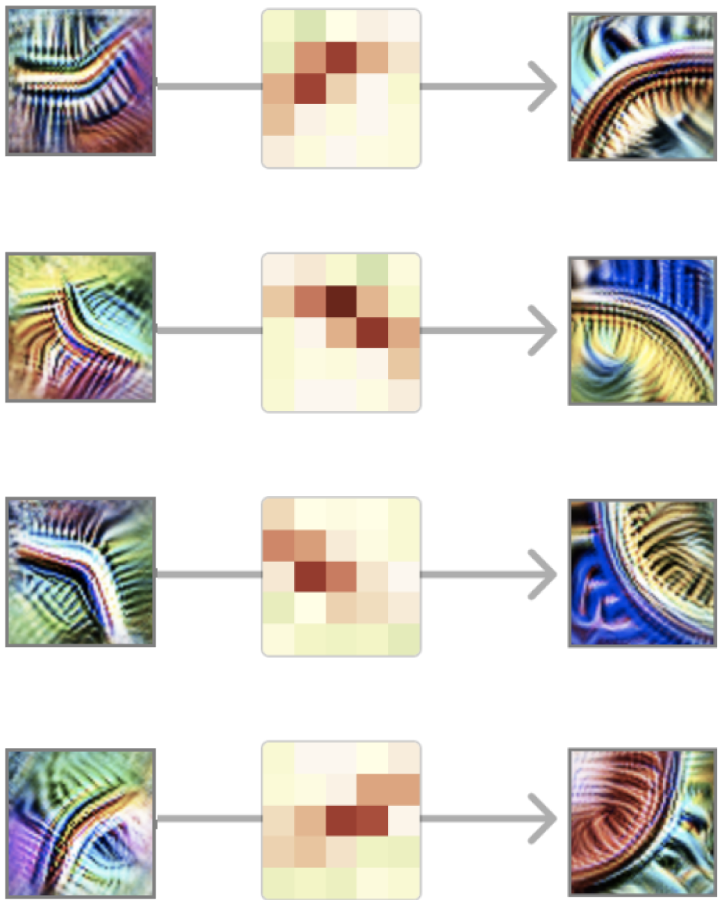
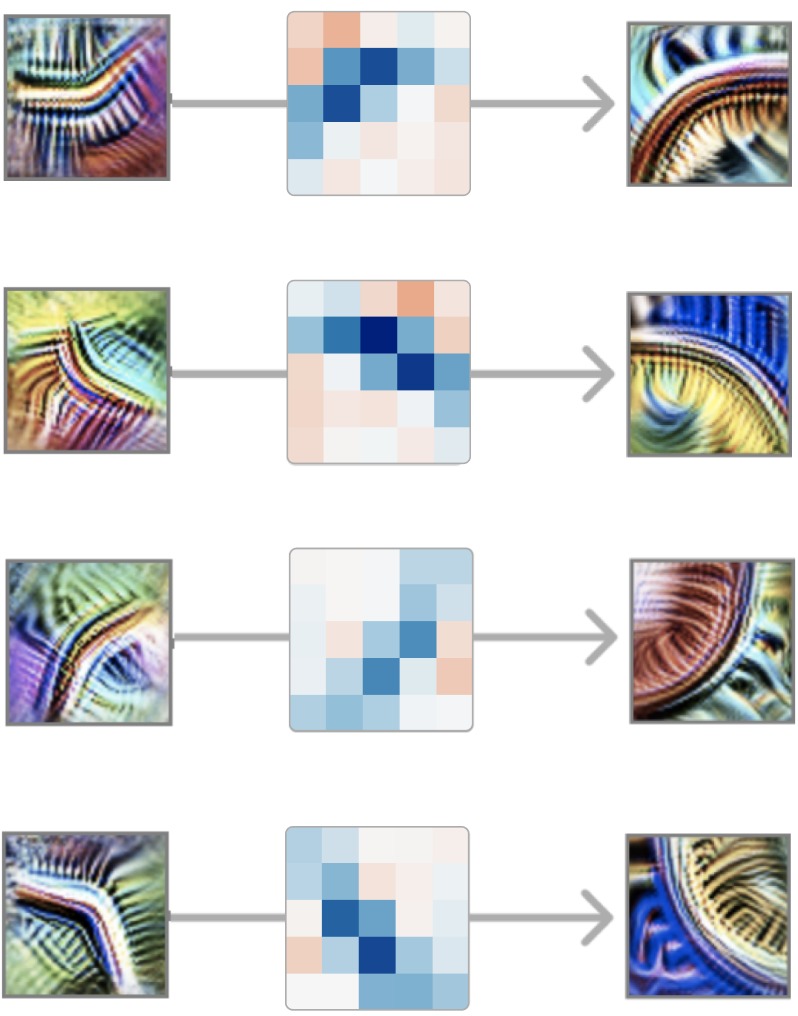
new color scheme

diff --git a/public/index.html b/public/index.html
@@ -477,7 +477,7 @@
       <figure class="curve-figure l-body-outset">
         <div>
           <img src="./images/curve-weights-a.png"/>
-          <figcaption>The raw weights between the early curve detector and late curve detector in the same orientation are a curve of <span class="positive-text">positive weights</span> surrounded by small negative or zero weights.
+          <figcaption>The raw weights between the early curve detector and late curve detector in the same orientation are a curve of <span class="positive-text">positive weights</span> surrounded by small <span class="negative-text">negative</span> or zero weights.
         </div>
         <div>
           <img src="./images/curve-weights-b.png"/>

diff --git a/public/index.css b/public/index.css
@@ -6,10 +6,12 @@ figure {
 
 
 .positive-text {
-  color: #191;
+  color: #ca0020;
+  font-weight: bold;
 }
 .negative-text {
-  color: #911;
+  color: #0571b0;
+  font-weight: bold;
 }
 
 /* ****************************************
